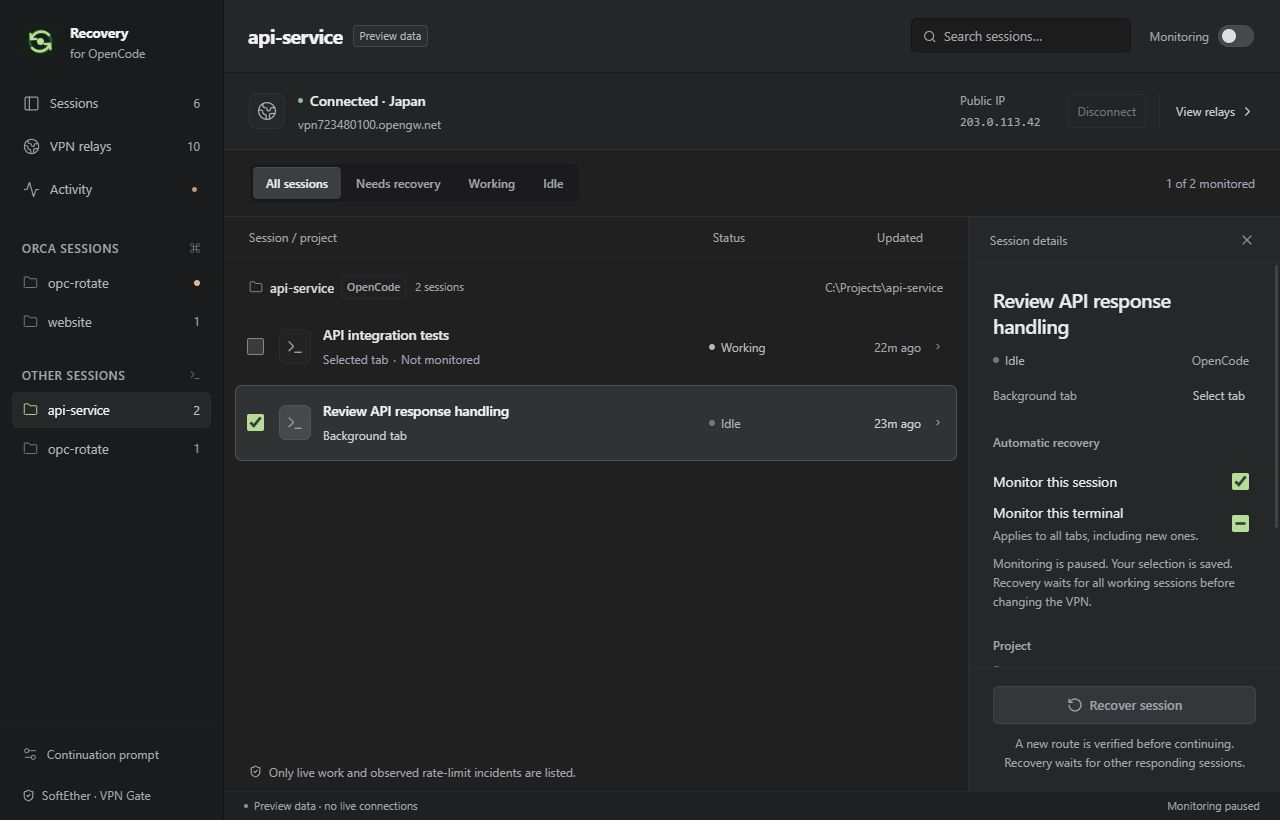
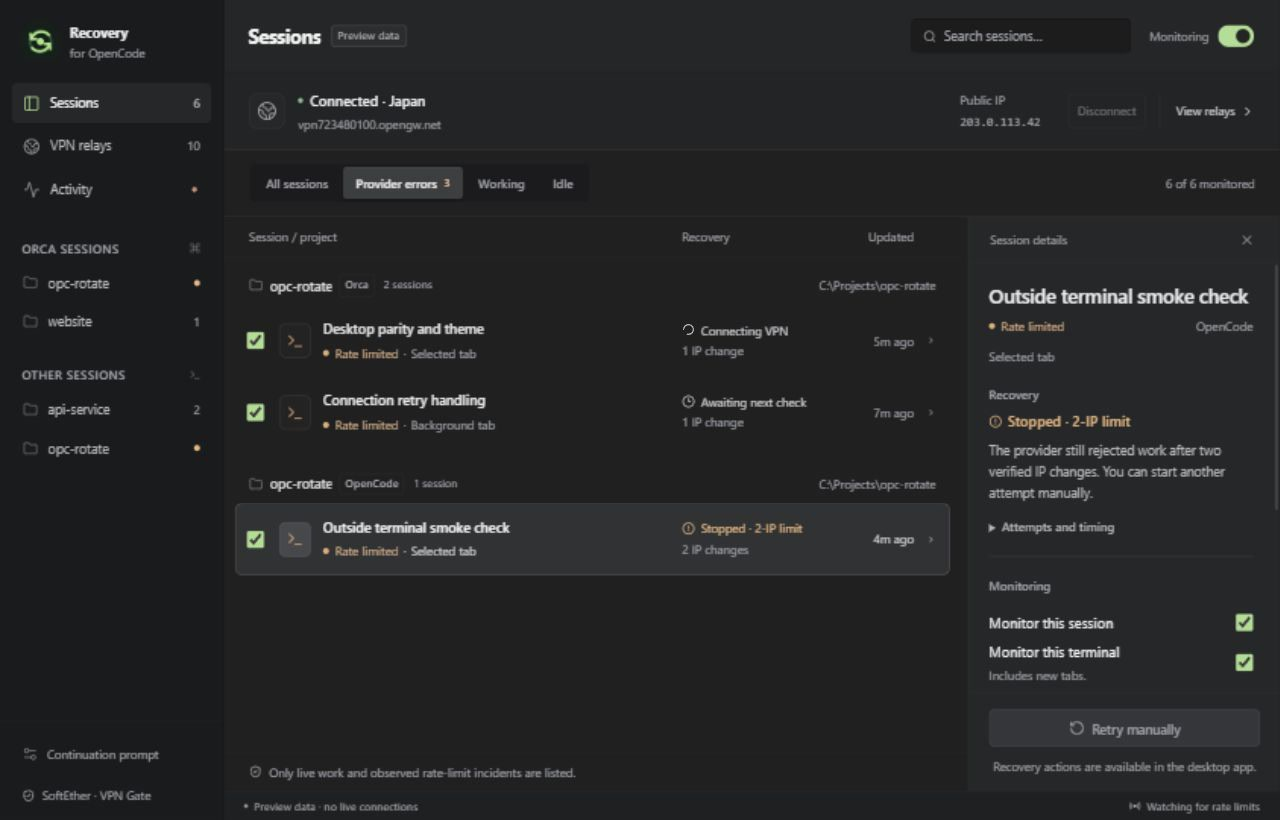
docs: document the clearer recovery layout and visual checks

diff --git a/docs/ROADMAP.md b/docs/ROADMAP.md
@@ -12,12 +12,13 @@ Outcome: the Windows dashboard can recover an affected existing session through 
 - [x] Continue a rate-limited Orca terminal in place once after a verified switch. The earlier terminal-send implementation was confirmed live. It is now replaced by exact-session plugin delivery; live verification of that new transport remains below.
 - [x] Queue incidents, avoid uncertain duplicate prompt sends, and stop after two verified new IPs for a session. Covered by Rust tests.
 - [x] Expose controller-driven recovery progress per session for both sources: queue/busy wait, cooldown eligibility, relay connection, IPv4 verification, exact-session delivery, receipt, and stop/uncertain states. Display verified IP-change counts, stage and confirmed-send times, and relay candidate details. Use a small spinner only for active work, with static waiting indicators and reduced-motion support. TypeScript/production build and 43 automated tests passed, including timer boundaries, source differences, saved limits, and exclusion cleanup.
-- [ ] Visually verify the new recovery indicators and countdown in the running UI. Browser access was rejected by the browser tool's URL policy during this update; no visual or live VPN verification is claimed. The isolated `?preview=1&recovery=1` fixture covers connecting, cooldown, sent, and stopped examples.
+- [x] Verify recovery indicators and the countdown in the browser preview during the layout clarification. The existing current tab was accessible; connecting, retry eligibility/awaiting-check, sent, stopped, excluded, and paused/watching states were inspected. Native live VPN verification remains separate below.
+- [x] Fix oversized status rows and clarify provider failure versus recovery outcome. Desktop fixture rows measure 72px; recovery header and row columns align exactly. Verify project groups, stopped-session explanation and manual action label, monitoring exclusions, timing disclosures, keyboard selection, empty search, inspected text contrast, and no page overflow at 1280 × 820, 980 × 660, and 390 × 844. Impeccable's detector returned no findings.
 - [x] Save individual session and whole-terminal monitoring choices for both sources. Terminal rules include new tabs; session overrides, API fallback ownership, queue pruning, and existing settings compatibility are covered by Rust tests. Browser checks verified individual/terminal toggles, mixed state, and independent sources.
 - [x] Refine the palette after feedback that the forest tint was excessive: charcoal surfaces, neutral text/row selections, restrained lime controls/actions, and gray disabled buttons. Preserve the real green app icon. Frontend build, UI detector, and inspected text contrast in sessions/relays/activity/prompt editing passed.
 - [x] Treat the specific “OpenCode's free tier can only be used from within OpenCode.” failed-provider message as a recovery incident in the live plugin and shared-service fallback. Node and Rust tests cover the supplied wording, curly apostrophes/wrapped text, non-429 status, and exclusion of ordinary errors/assistant text. The rebuilt native app detected this exact error on Orchestrator while monitoring stayed paused. Monitoring selection and the two-IP limit apply to this trigger too; live rotation/continuation remains unverified.
 - [x] Discover all open tabs in live Orca and outside clients, including idle/background tabs and connected private services. Fresh V2 plugin reports showed two Vise tabs, two Thesis tabs, and one spectre-mail tab without restarting their terminals. Saved global tab files and historical session lists remain excluded. Expired leases disappear; closed incidents retain their error without an active delivery route.
-- [x] Display all session tabs directly beneath folder-marked project headings for both sources, with no redundant terminal heading/count rows. Keep per-tab Idle/Working/Needs recovery/unavailable status, selected/background labels, and an Idle filter. Browser fixtures verified folder icons for all four project groups, all six session rows, no terminal headings, and no overflow at 1280 × 820 and 980 × 660.
+- [x] Display all session tabs directly beneath folder-marked project headings for both sources, with no redundant terminal heading/count rows. Keep per-tab activity/error status, selected/background labels, and an Idle filter. Browser fixtures verified folder icons for all four project groups, all six session rows, no terminal headings, and no overflow at 1280 × 820 and 980 × 660.
 - [x] Shorten the default prompt to “Continue from where you stopped after the rate limit”. Existing settings migrate only the former built-in default, preserving custom global prompts and session overrides. Browser prompt-editor verification and a Rust migration test cover the change.
 - [x] Route continuation to the exact session through a claimed local request and SDK receipt, preserving the selected tab. Node and Rust mocks cover duplicate/uncertain delivery, busy/closed/expired/replaced clients, private clients, and timeout cleanup. The controller persists its incident guard before sending. Live inspection corrected the Orca pane key to `tabId:leafId`.
 - [x] Deduplicate Orca ownership by exact session ID instead of excluding an entire project directory. A mock API test covers an open idle outside session alongside an Orca-owned ID; historical session enumeration is absent.
@@ -37,7 +38,7 @@ Outcome: a source build and installer work on the target Windows setup.
 - [x] Pass `npm test`: 9 Node presence-plugin tests and 31 Rust tests at the last full run, including monitoring choices, terminal inheritance/API fallback, the free-tier client gate, and the Windows no-console check.
 - [x] Suppress console popups from background Orca/SoftEther CLI helpers with Windows `CREATE_NO_WINDOW`. A real PowerShell child reports no console handle while command output is still captured.
 - [x] Build the updated NSIS installer with `npm run tauri -- build` after adding monitoring selection, the icon-matched palette, and the free-tier client-gate trigger.
-- [x] Rebuild the NSIS installer and matching SHA-256 file with per-session recovery progress. The current suite passes 9 Node and 34 Rust tests; production fixture exclusion also passes. The indicator visual check remains open above.
+- [x] Rebuild the NSIS installer and matching SHA-256 file with per-session recovery progress. The current suite passes 9 Node and 34 Rust tests; production fixture exclusion also passes. The indicator browser check is recorded above; live continuation remains pending.
 - [x] Start a second desktop dev run when port 1420 is occupied. The npm Tauri command selected 1421 for both Vite and Tauri; the page returned HTTP 200, and the existing process on 1420 remained active.
 - [x] Visually verify the workspace with live data in an unobstructed native window. The rebuilt release displayed both Thesis tabs under Other sessions and both Vise tabs under Orca sessions, with separate selected/background labels and Idle status. The sidebar counted five live sessions with no duplicate legacy terminal rows. Native project navigation also passed.
 - [ ] Verify the new exact-session plugin continuation during a real rate-limit event for Orca and outside clients, including a background tab. Parser, receipt, and busy/closed-tab behavior have mock coverage; no live prompt or VPN change was performed for this tab-discovery update.

diff --git a/docs/USAGE.md b/docs/USAGE.md
@@ -19,7 +19,7 @@ SoftEther is a **separate installed dependency** in this preview. Its service an
 4. Choose which work to recover. All sessions are included initially; use the row checkboxes or **Monitor this terminal** in the inspector. A terminal rule includes new tabs; individual session choices override it. Choices are saved.
 5. Turn on **Monitoring** when ready. It starts off on a fresh install and restores your saved preference on subsequent launches.
 
-**Idle** means the session is live but not responding. **Working** means it is responding. **Needs recovery** means a qualifying provider failure was observed. **Status unavailable** means execution status could not be established. **Selected tab** describes the tab shown in its terminal, independently of whether it is working.
+**Idle** means the session is live but not responding. **Working** means it is responding. **Rate limited** or **Provider blocked** describes the latest qualifying provider failure. This appears beneath the session title; the separate **Recovery** column shows what Recovery is doing. **Status unavailable** means execution status could not be established. **Selected tab** describes the tab shown in its terminal, independently of whether it is working. The **Provider errors** filter includes affected sessions even if recovery is stopped or they are not monitored.
 
 Unchecked sessions stay visible as **Not monitored**. They cannot trigger recovery or receive its prompts. Unchecking removes queued work; a prompt already submitted cannot be recalled. Pausing Monitoring clears pending continuations without changing your selections. **Recover session** is a manual action for included sessions and works while automatic monitoring is paused.
 
@@ -51,9 +51,11 @@ The **30-second Orca delay is a minimum after a confirmed continuation receipt**
 
 Each affected row shows its recovery stage alongside its OpenCode activity: queued, waiting for work, connecting, verifying IP, waiting for idle, sending a prompt, prompt sent, or stopped/uncertain. Active connection and delivery stages use a small spinner; waiting stages use a static clock. Reduced motion keeps the stage text without continuous rotation. Only sessions in that recovery show progress; unrelated sessions retain their normal activity status.
 
-The session inspector's **Recovery progress** section shows the controller's current explanation, the verified IP-change count, stage start time, and last confirmed prompt time. A cooldown countdown says **Eligible in …s**, then **Awaiting next check**; it does not promise an immediate retry at zero. Relay details show the current candidate number and connection timeout. **Prompt sent** confirms a receipt, not that the provider accepted the next model call.
+The session inspector's **Recovery** section shows the controller's current explanation. Open **Attempts and timing** for the verified IP-change count, stage start time, and last confirmed prompt time. A cooldown countdown says **Eligible in …s**, then **Awaiting next check**; it does not promise an immediate retry at zero. Relay details show the current candidate number and connection timeout. **Prompt sent** confirms a receipt, not that the provider accepted the next model call.
 
 The automatic limit is two verified IP changes per session. There is no timed reset, and the count survives app restarts. **Recover session** explicitly queues another manual attempt; it still waits for busy work and verifies a changed IP. Pausing monitoring or excluding queued work stops its progress indicator. Ambiguous delivery stays visible for inspection instead of triggering an automatic resend.
+
+**Stopped · 2-IP limit** means automatic recovery has stopped; it is not still retrying. The inspector explains this and labels the manual action **Retry manually**. A session can remain **Rate limited** while its recovery is **Stopped**, because the provider failure and the app's recovery process are different states. Unchecked sessions show **Not monitored** in the recovery column.
 
 ## Relays and history
 

diff --git a/docs/CONTEXT.md b/docs/CONTEXT.md
@@ -4,7 +4,7 @@
 
 OpenCode Recovery is a Windows x64 Tauri dashboard for live OpenCode sessions. Version **0.1.0** is a preview candidate. Read the [user guide](USAGE.md) for behavior and the [roadmap](ROADMAP.md) for verified milestones. Source and tests define implementation; this file maps them.
 
-The dashboard lists every live OpenCode tab directly beneath a project folder, separated into Orca and other sources. Idle/Working/Needs recovery/unavailable describe activity; selected/background describe terminal selection. Historical session lists and saved global tabs are not discovery sources. Previously observed failures remain visible after closure with no delivery route.
+The dashboard lists every live OpenCode tab directly beneath a project folder, separated into Orca and other sources. Idle/Working/Rate limited/Provider blocked/unavailable describe OpenCode activity beneath the title; selected/background describe terminal selection. A separate Recovery column shows the app's process, including Stopped · 2-IP limit. Historical session lists and saved global tabs are not discovery sources. Previously observed failures remain visible after closure with no delivery route.
 
 Saved monitoring rules include individual sessions and whole terminals. Session overrides win; new tabs inherit a terminal rule. A cached ownership binding preserves exclusions during API fallback. Unchecking prunes queued work. Pausing clears queues, and an epoch guard prevents raced busy receipts from restoring canceled work. Every busy session still protects machine-wide routing, regardless of monitoring selection.
 
@@ -51,7 +51,9 @@ Per-session recovery progress is exposed as `Snapshot.recovery`, separate from O
 
 ## Verification baseline and gaps
 
-The recovery-progress update passed **9 Node and 34 Rust tests**, the production frontend build, NSIS packaging, and the release fixture-exclusion check. New tests cover the Orca send-based minimum delay, outside-source timing, per-session progress/counts, exclusion cleanup, saved limits, and stable stage timestamps. Browser UI verification was blocked by the browser tool's URL policy; no visual or live VPN check is claimed for these indicators.
+The layout clarification fixes a flex-basis regression that made activity labels 124–128px tall inside a vertical stack. Session rows now use a shared grid with the sticky column header inside the same scroll container. Browser checks verified 72px desktop rows, exact header/recovery-column alignment, longer wrapped titles at the desktop minimum, no horizontal overflow at 1280 × 820, 980 × 660, and 390 × 844, keyboard selection, expandable timing details, monitoring exclusions, and empty search. Inspected non-disabled text contrast passed, and Impeccable's detector returned no findings. Timing and project details use native disclosures; manual retry remains the existing command, relabeled for stopped sessions. The earlier browser verification blocker is resolved for the current tab; no live VPN change was performed.
+
+The recovery-progress update passed **9 Node and 34 Rust tests**, the production frontend build, NSIS packaging, and the release fixture-exclusion check. New tests cover the Orca send-based minimum delay, outside-source timing, per-session progress/counts, exclusion cleanup, saved limits, and stable stage timestamps. Its original browser check was blocked; the current layout verification above supersedes that gap. Live VPN verification remains pending.
 
 The pre-release baseline passed **9 Node plugin tests and 31 Rust tests**, TypeScript/Vite build, and NSIS packaging. Windows helper coverage verifies no console handle while output is captured. Browser preview checks covered the requested project hierarchy, monitoring controls, keyboard behavior, empty states, desktop sizes, and inspected text contrast. Native checks confirmed live idle/background tabs and the free-tier provider error without triggering recovery.
 

diff --git a/CHANGELOG.md b/CHANGELOG.md
@@ -9,6 +9,7 @@ Initial Windows x64 release candidate; a public GitHub release has not yet been 
 - Project-grouped live OpenCode tabs for Orca and other terminals, with independent activity and selected/background status.
 - Saved monitoring choices per session or terminal, prompt overrides, relay preferences, and connection activity.
 - Per-session recovery stages with active-work spinners, retry-eligibility countdowns, relay-attempt details, confirmed prompt times, and visible stop/uncertain states.
+- Compact aligned session rows with provider activity beneath the title, a dedicated Recovery column, clear two-IP stop/manual-retry wording, and expandable timing/project details.
 - VPN Gate relay ranking and bounded SoftEther connection attempts with changed-public-IPv4 verification.
 - Exact-session continuation requests, claimed receipts, uncertain-delivery protection, and a two-IP recovery limit.
 - Detection of rate-limit/quota failures and the specific OpenCode free-tier client-gate error.
